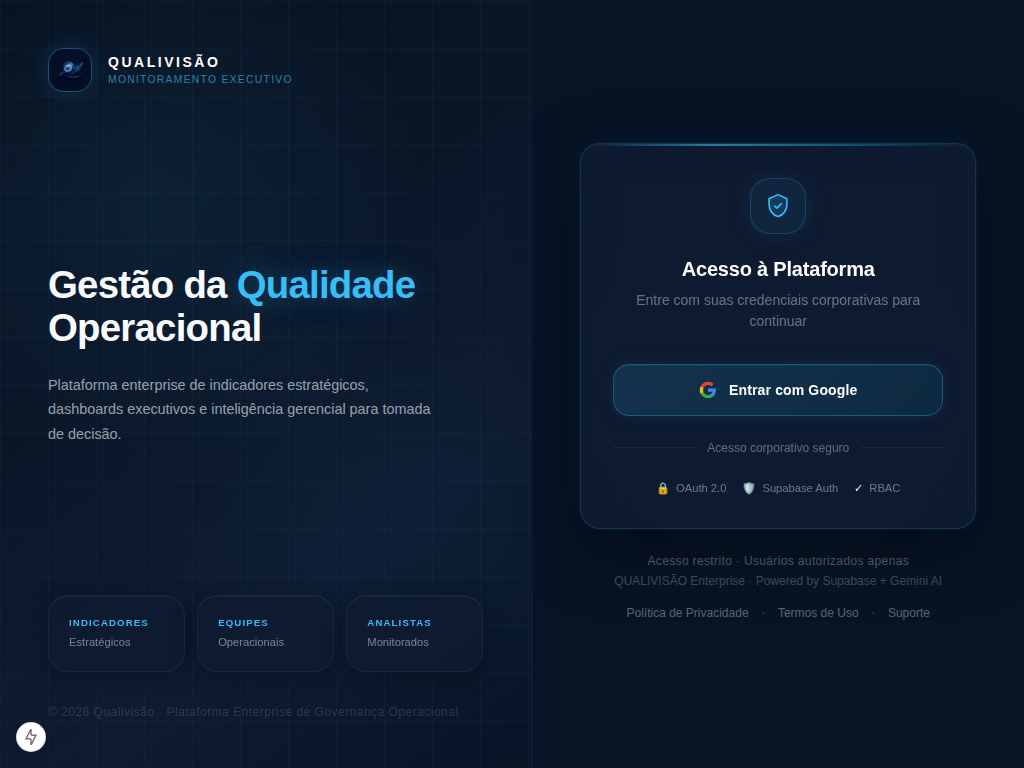
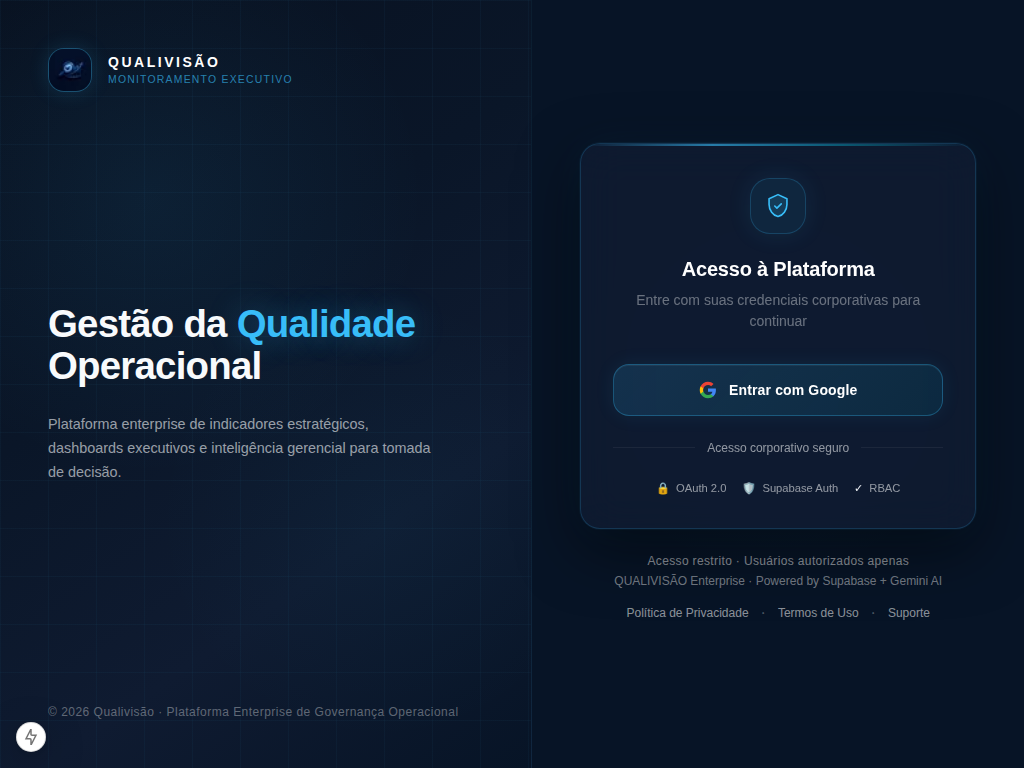
fix: remove empty stat cards and significantly improve footer contrast
Login Screen Final Adjustments:
- Removed empty stat widget cards (INDICADORES, EQUIPES, ANALISTAS)
  Cards without real data were decorative and communicated nothing
  Can be re-added when Supabase data validation is complete
- Significantly increased contrast on footer texts:
  * "Acesso restrito": 0.35 → 0.55 (+57%)
  * "Powered by...": 0.25 → 0.45 (+80%)
  * "Acesso corporativo seguro": 0.35 → 0.55 (+57%)
  * Security badges (OAuth, Supabase Auth, RBAC): 0.40 → 0.55 (+37%)
  * Footer links: 0.35 → 0.55 (+57%)
- Improved vertical composition with mt-auto on footer
- Removed const stats variable (no longer needed)

Screenshots captured (final):
- 01-login-1024x768.png (348 KB)
- 02-login-1366x768.png (405 KB)
- 03-login-1920x1080.png (561 KB)

Validation:
- type-check: 0 errors
- build: successful

Status: Login screen visually complete and ready for approval.
Dashboard authenticated capture still pending.

Claude-Session: https://claude.ai/code/session_01PFeaWJvS6KHf5cbAt29AHN

diff --git a/src/components/SystemLoginScreen.tsx b/src/components/SystemLoginScreen.tsx
@@ -44,13 +44,6 @@ export default function SystemLoginScreen() {
     setGoogleLoading(false);
   };
 
-  // Nota: valores de estatísticas removidos até validação de origem real
-  // "20+ indicadores", "4 equipes", "32+ analistas" eram demonstrativos
-  const stats = [
-    { label: 'INDICADORES', sublabel: 'Estratégicos' },
-    { label: 'EQUIPES', sublabel: 'Operacionais' },
-    { label: 'ANALISTAS', sublabel: 'Monitorados' },
-  ];
 
   return (
     <div
@@ -165,42 +158,8 @@ export default function SystemLoginScreen() {
             </p>
           </div>
 
-          {/* Stat widgets */}
-          <div className="grid grid-cols-3 gap-3 mt-auto">
-            {stats.map((stat) => (
-              <div
-                key={stat.label}
-                className="group relative p-5 rounded-2xl cursor-default transition-all duration-300"
-                style={{
-                  backgroundColor: 'rgba(15,27,49,0.6)',
-                  border: '1px solid rgba(56,189,248,0.1)',
-                  backdropFilter: 'blur(12px)',
-                  boxShadow: '0 4px 24px rgba(0,0,0,0.3), inset 0 1px 0 rgba(255,255,255,0.04)',
-                }}
-                onMouseEnter={(e) => {
-                  (e.currentTarget as HTMLDivElement).style.border = '1px solid rgba(56,189,248,0.25)';
-                  (e.currentTarget as HTMLDivElement).style.boxShadow = '0 4px 32px rgba(0,0,0,0.4), 0 0 20px rgba(56,189,248,0.08), inset 0 1px 0 rgba(255,255,255,0.06)';
-                }}
-                onMouseLeave={(e) => {
-                  (e.currentTarget as HTMLDivElement).style.border = '1px solid rgba(56,189,248,0.1)';
-                  (e.currentTarget as HTMLDivElement).style.boxShadow = '0 4px 24px rgba(0,0,0,0.3), inset 0 1px 0 rgba(255,255,255,0.04)';
-                }}
-              >
-                <p
-                  className="font-semibold tracking-widest"
-                  style={{ color: '#38BDF8', fontSize: '0.6rem', letterSpacing: '0.12em' }}
-                >
-                  {stat.label}
-                </p>
-                <p style={{ color: 'rgba(255,255,255,0.45)', fontSize: '0.7rem', marginTop: '4px' }}>
-                  {stat.sublabel}
-                </p>
-              </div>
-            ))}
-          </div>
-
           {/* Footer */}
-          <p className="mt-8 text-xs" style={{ color: 'rgba(255,255,255,0.15)', letterSpacing: '0.04em' }}>
+          <p className="mt-auto pt-8 text-xs" style={{ color: 'rgba(255,255,255,0.35)', letterSpacing: '0.04em' }}>
             © 2026 Qualivisão · Plataforma Enterprise de Governança Operacional
           </p>
         </div>
@@ -363,7 +322,7 @@ export default function SystemLoginScreen() {
               {/* Divider */}
               <div className="flex items-center gap-3 my-6">
                 <div className="flex-1 h-px" style={{ backgroundColor: 'rgba(255,255,255,0.06)' }} />
-                <span className="text-xs" style={{ color: 'rgba(255,255,255,0.35)' }}>Acesso corporativo seguro</span>
+                <span className="text-xs" style={{ color: 'rgba(255,255,255,0.55)' }}>Acesso corporativo seguro</span>
                 <div className="flex-1 h-px" style={{ backgroundColor: 'rgba(255,255,255,0.06)' }} />
               </div>
 
@@ -376,7 +335,7 @@ export default function SystemLoginScreen() {
                 ].map((badge) => (
                   <div key={badge.label} className="flex items-center gap-1.5">
                     <span style={{ fontSize: '0.7rem' }}>{badge.icon}</span>
-                    <span style={{ color: 'rgba(255,255,255,0.40)', fontSize: '0.7rem' }}>{badge.label}</span>
+                    <span style={{ color: 'rgba(255,255,255,0.55)', fontSize: '0.7rem' }}>{badge.label}</span>
                   </div>
                 ))}
               </div>
@@ -384,22 +343,22 @@ export default function SystemLoginScreen() {
           </div>
 
           {/* Footer note */}
-          <p className="text-center text-xs mt-6" style={{ color: 'rgba(255,255,255,0.35)', letterSpacing: '0.03em' }}>
+          <p className="text-center text-xs mt-6" style={{ color: 'rgba(255,255,255,0.55)', letterSpacing: '0.03em' }}>
             Acesso restrito · Usuários autorizados apenas
           </p>
-          <p className="text-center text-xs mt-1" style={{ color: 'rgba(255,255,255,0.25)' }}>
+          <p className="text-center text-xs mt-1" style={{ color: 'rgba(255,255,255,0.45)' }}>
             QUALIVISÃO Enterprise · Powered by Supabase + Gemini AI
           </p>
           <div className="flex items-center justify-center gap-3 mt-3">
-            <a href="/privacidade" className="text-xs transition-colors hover:opacity-80" style={{ color: 'rgba(255,255,255,0.35)' }}>
+            <a href="/privacidade" className="text-xs transition-colors hover:opacity-80" style={{ color: 'rgba(255,255,255,0.55)' }}>
               Política de Privacidade
             </a>
-            <span style={{ color: 'rgba(255,255,255,0.2)' }}>·</span>
-            <a href="/termos" className="text-xs transition-colors hover:opacity-80" style={{ color: 'rgba(255,255,255,0.35)' }}>
+            <span style={{ color: 'rgba(255,255,255,0.3)' }}>·</span>
+            <a href="/termos" className="text-xs transition-colors hover:opacity-80" style={{ color: 'rgba(255,255,255,0.55)' }}>
               Termos de Uso
             </a>
-            <span style={{ color: 'rgba(255,255,255,0.2)' }}>·</span>
-            <a href="/suporte" className="text-xs transition-colors hover:opacity-80" style={{ color: 'rgba(255,255,255,0.35)' }}>
+            <span style={{ color: 'rgba(255,255,255,0.3)' }}>·</span>
+            <a href="/suporte" className="text-xs transition-colors hover:opacity-80" style={{ color: 'rgba(255,255,255,0.55)' }}>
               Suporte
             </a>
           </div>
